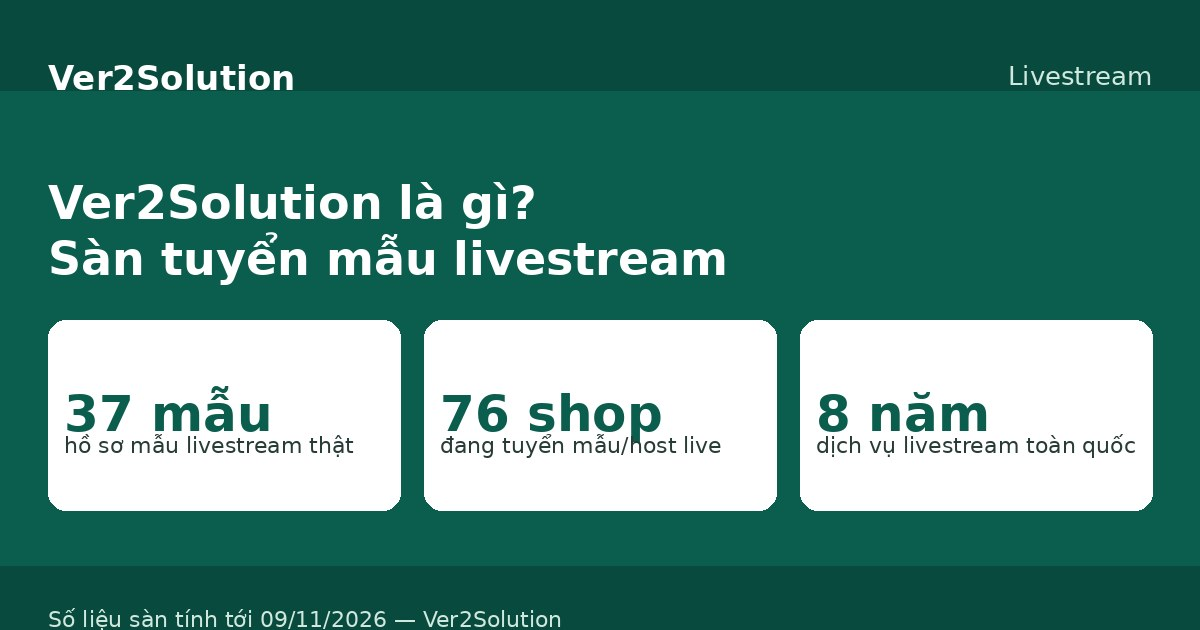
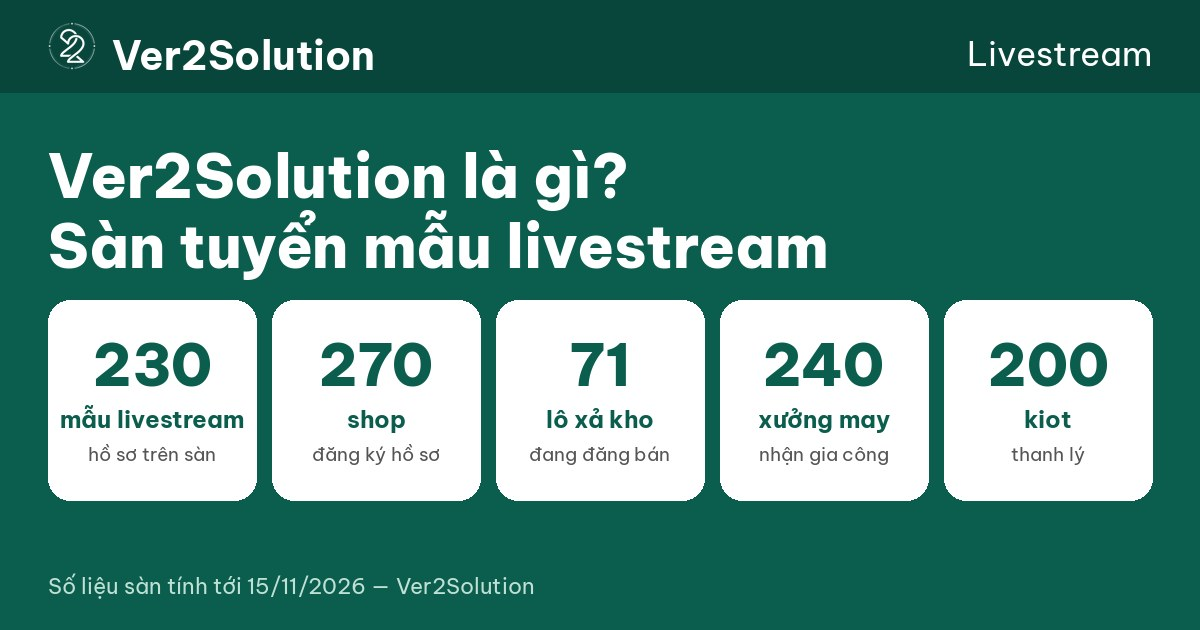
Deploy v253 MOI-MC-4 lam lai infographic gioi thieu 230/270/71/240/200 + sw.js v253-shell-1

diff --git a/gioi-thieu.html b/gioi-thieu.html
@@ -44,7 +44,8 @@
 <a class="btn btn-primary btn-sm" data-track="nut-dang-tin-tuyen-mau" href="dang-nhap.html?next=gioi-thieu.html">Đăng Nhập</a></div></header>
 <main class="wrap">
 <section class="section"><h1>Về chúng tôi</h1>
-<p>Vieclamlivestream.online là sàn việc làm dành cho idol live hàng đầu Việt Nam — nơi mẫu livestream, MC tìm việc đúng nghề và shop tìm đúng người lên live, liên hệ trực tiếp, không qua trung gian. Chúng tôi hoạt động 8 năm với cộng đồng hơn 400 khách bán livestream đang có nhu cầu tìm kiếm dịch vụ.</p></section>
+<p>Vieclamlivestream.online là sàn việc làm dành cho idol live hàng đầu Việt Nam — nơi mẫu livestream, MC tìm việc đúng nghề và shop tìm đúng người lên live, liên hệ trực tiếp, không qua trung gian. Chúng tôi hoạt động 8 năm với cộng đồng hơn 400 khách bán livestream đang có nhu cầu tìm kiếm dịch vụ.</p>
+<figure style="margin:18px 0 0"><img src="images/bai-viet/gioi-thieu-ver2solution.png" alt="Infographic Ver2Solution: 230 mẫu livestream, 270 shop, 71 lô xả kho, 240 xưởng may, 200 kiot — số liệu sàn tính tới 15/11/2026" style="width:100%;height:auto;border-radius:16px;display:block" loading="lazy"><figcaption style="font-size:13px;color:#666;margin-top:8px">Quy mô sàn tính tới 15/11/2026: 230 mẫu livestream · 270 shop · 71 lô xả kho · 240 xưởng may · 200 kiot.</figcaption></figure></section>
 
 <section class="form-card"><h2>1. Sàn mclivestream là gì</h2>
 <p>Sàn mclivestream là một dịch vụ trong hệ sinh thái Ver2Solution, gồm 4 mảng:</p>

diff --git a/sw.js b/sw.js
@@ -23,7 +23,7 @@
    (js/article-editor.js, js/article-media.js, js/seo-keywords.js) +
    publisher nhan body HTML (tools/publish-article-drafts.mjs); doi
    js/admin.js + quan-tri.html; them SQL bucket article-media (chua chay). */
-const CACHE = 'v252-shell-1'; /* v252: F-R2-04 badge header thanh logo C + dong bo favicon/logo/icon */
+const CACHE = 'v253-shell-1'; /* v253: MOI-MC-4 lam lai infographic gioi thieu 230/270/71/240/200 */
 const SHELL = ['v20.css', 'js/data.js', 'js/app.js', 'js/themes.js', 'icon-192.png', 'icon-512.png',
   'images/partners/google-icon.png', 'images/partners/meta-icon.png', 'images/partners/tiktok-icon.png',
   'images/partners/thaco-icon.png', 'images/partners/tpbank-icon.png', 'images/partners/coccoc-icon.png',
